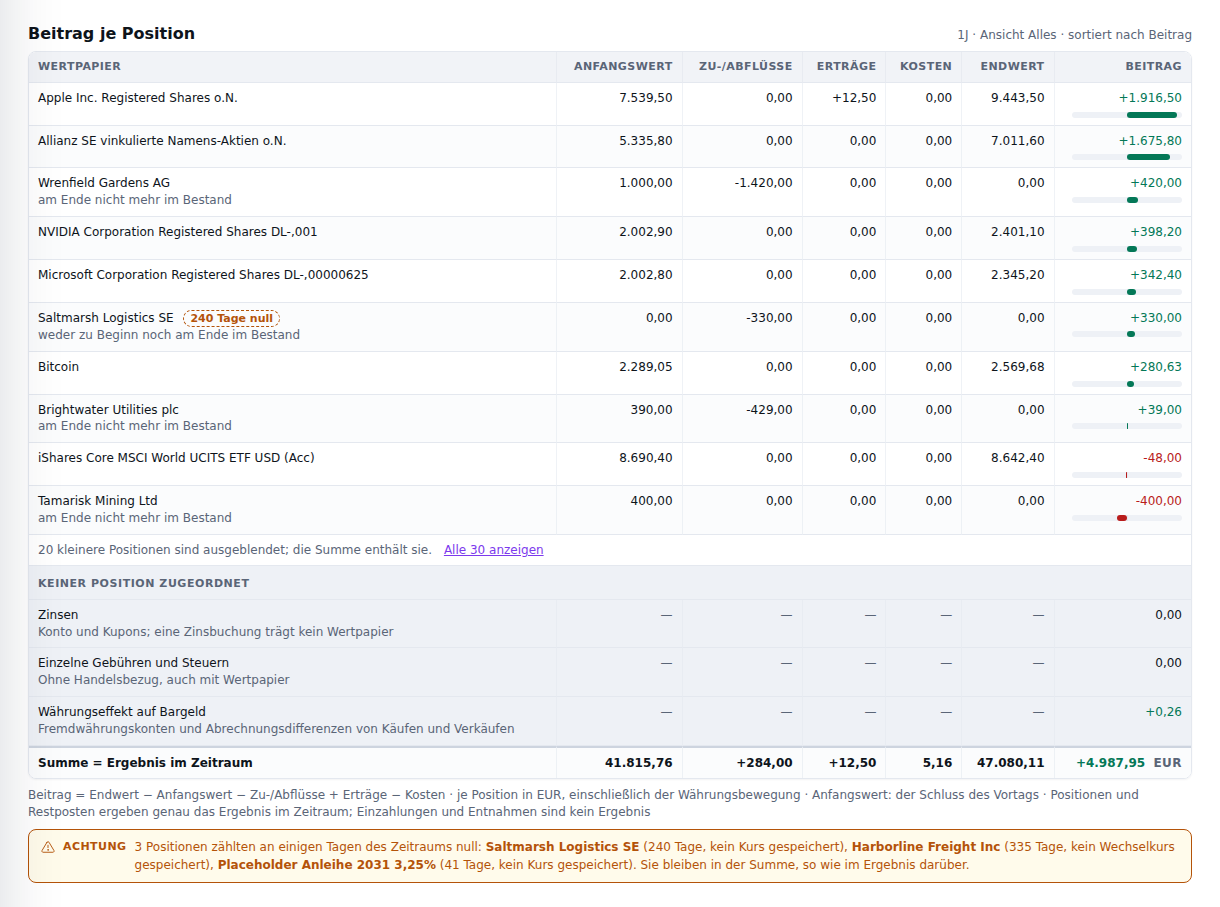
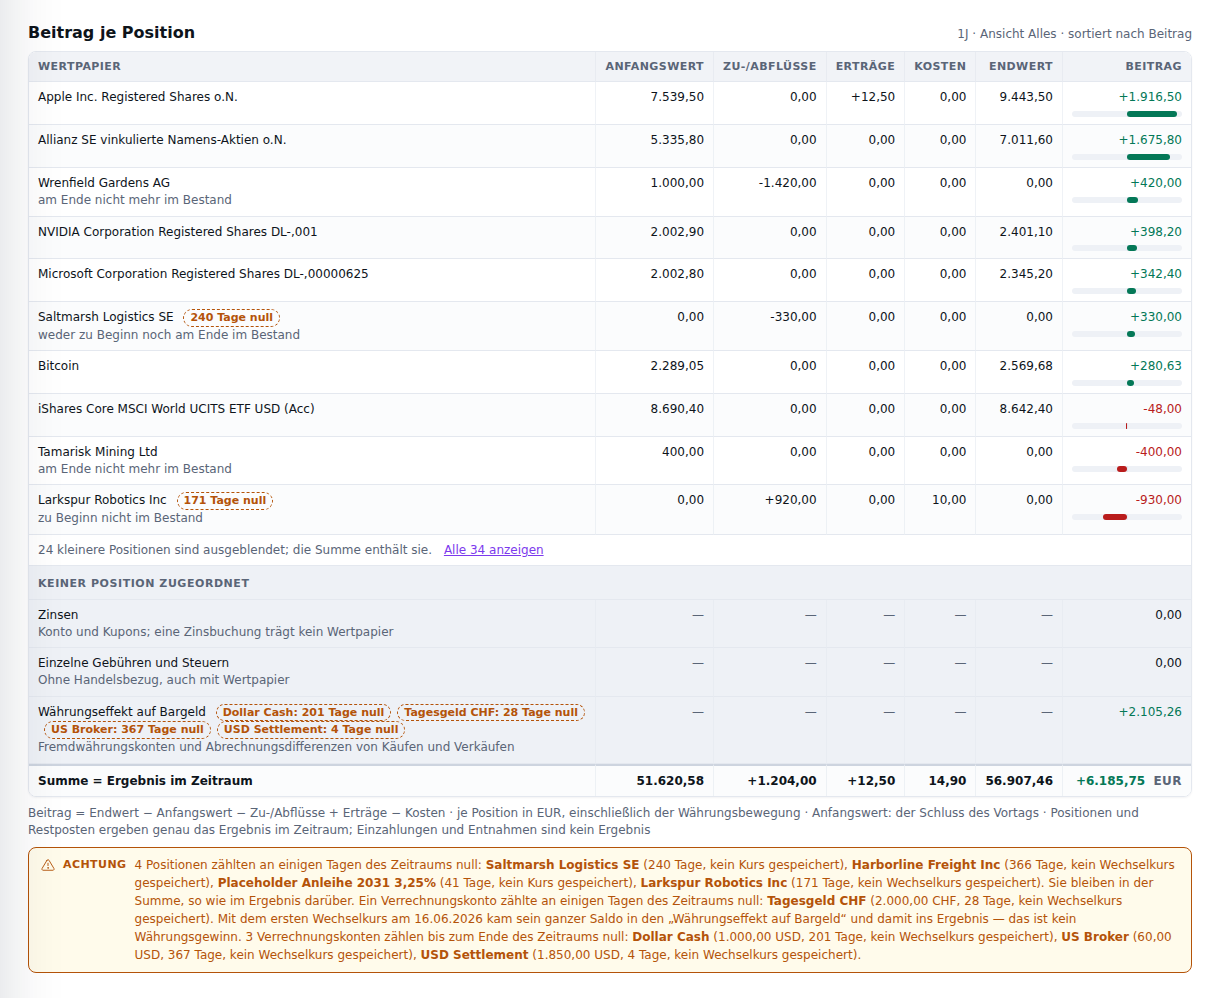
docs: regenerate the screenshots of the surfaces PR α changed
priv/demo/screenshots.mjs on a fresh finding_surfaces_seed.exs instance;
only the images whose surface this PR changed are kept, every other
regenerated image is left as it was.

- dashboard.png: the note under "Alles" naming what the total leaves out,
  "veraltet im Katalog" under Kurse, and the data-quality line counting
  the bonds priced on two scales.
- portfolio.png: Wealth's data-quality notes, with the cash amounts, the
  held positions with no rate and both two-scales notes.
- contribution.png: the cash accounts' zero-day chips, Larkspur's costs
  and the note's first-rate sentence.

The contribution image's alt text in both handbooks now says "Show all
34" / "Alle 34 anzeigen", the count the image shows.

diff --git a/docs/product-documentation.md b/docs/product-documentation.md
@@ -1956,7 +1956,7 @@ without a rate on the period's last day is said to count zero until the end
 of the period. Pick a period that starts after the first rate's day and the
 account, like the jump, is gone from the table and the note.
 
-[![Contribution by position over one year: start value, flows, income, costs, end value and contribution for the ten largest positions with their bars, Show all 30, the three lines not attributed to a position, the sum row, and a note naming the positions that counted zero on some days](screenshots/contribution.png)](screenshots/contribution.png)
+[![Contribution by position over one year: start value, flows, income, costs, end value and contribution for the ten largest positions with their bars, Show all 34, the three lines not attributed to a position, the sum row, and a note naming the positions that counted zero on some days](screenshots/contribution.png)](screenshots/contribution.png)
 
 *Contribution by position on the synthetic demo dataset, in the German
 interface.*

diff --git a/docs/de/product-documentation.md b/docs/de/product-documentation.md
@@ -2141,7 +2141,7 @@ Zeitraums null“. Bei einem Zeitraum, der nach dem Tag des ersten
 Wechselkurses beginnt, verschwindet das Konto wie der Sprung aus Tabelle und
 Hinweis.
 
-[![Beitrag je Position über ein Jahr: Anfangswert, Zu-/Abflüsse, Erträge, Kosten, Endwert und Beitrag der zehn größten Positionen mit ihren Balken, Alle 30 anzeigen, die drei Posten ohne Position, die Summenzeile und ein Hinweis auf die Positionen, die an einigen Tagen null zählten](../screenshots/contribution.png)](../screenshots/contribution.png)
+[![Beitrag je Position über ein Jahr: Anfangswert, Zu-/Abflüsse, Erträge, Kosten, Endwert und Beitrag der zehn größten Positionen mit ihren Balken, Alle 34 anzeigen, die drei Posten ohne Position, die Summenzeile und ein Hinweis auf die Positionen, die an einigen Tagen null zählten](../screenshots/contribution.png)](../screenshots/contribution.png)
 
 *Beitrag je Position auf dem synthetischen Demo-Datensatz.*
 
